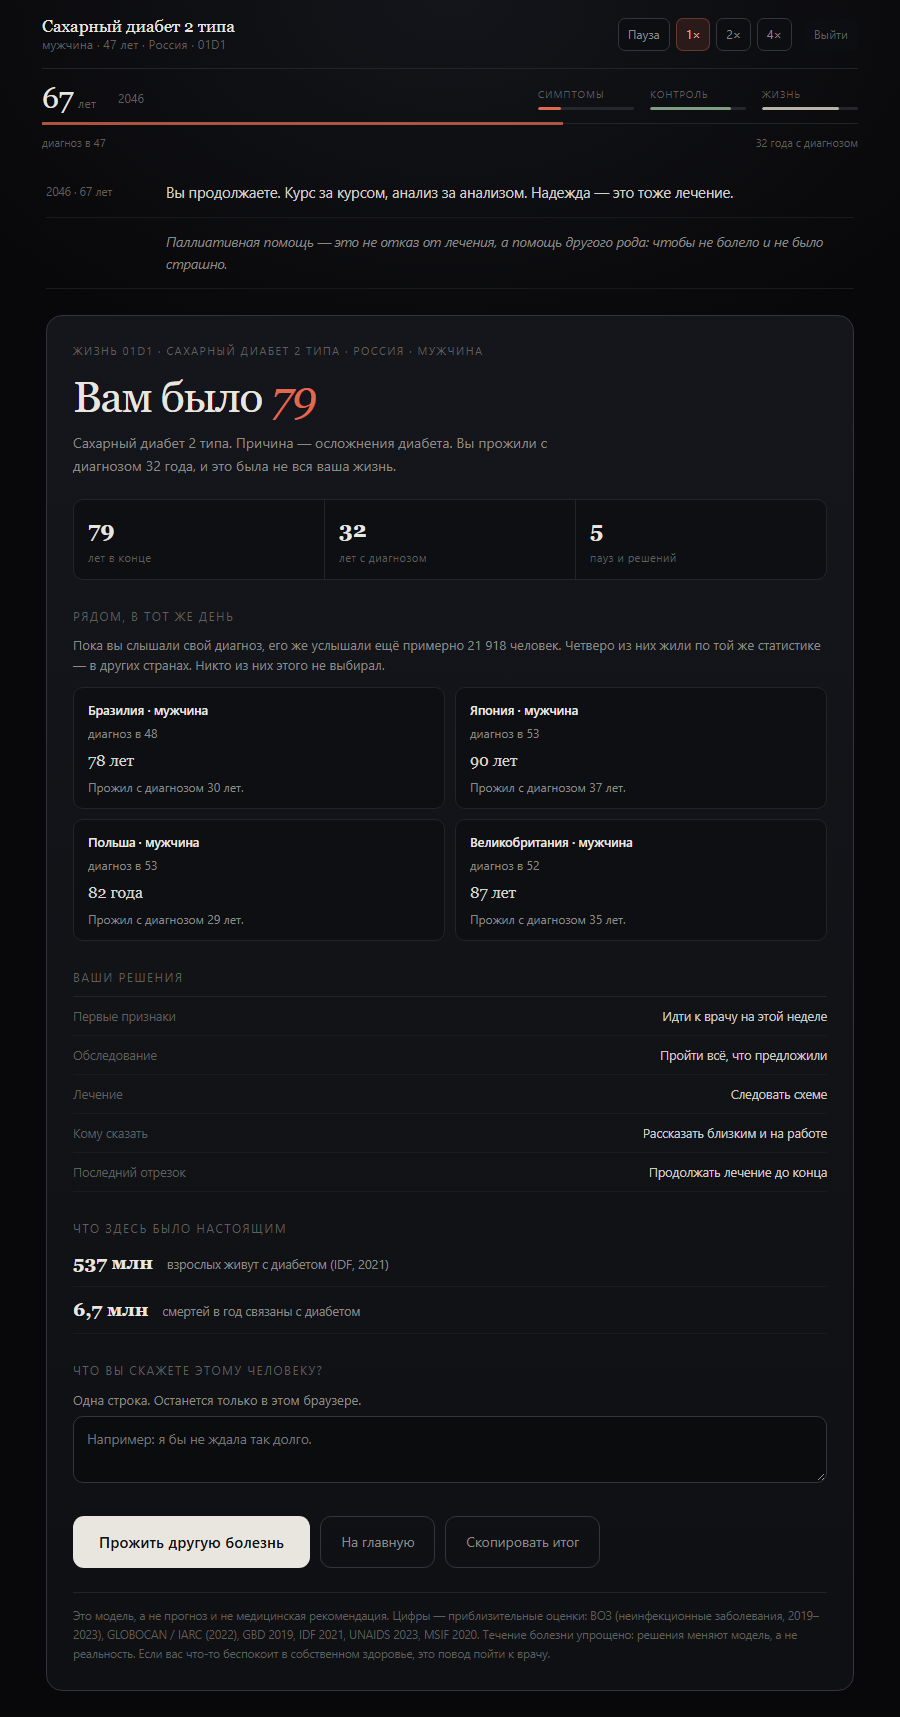
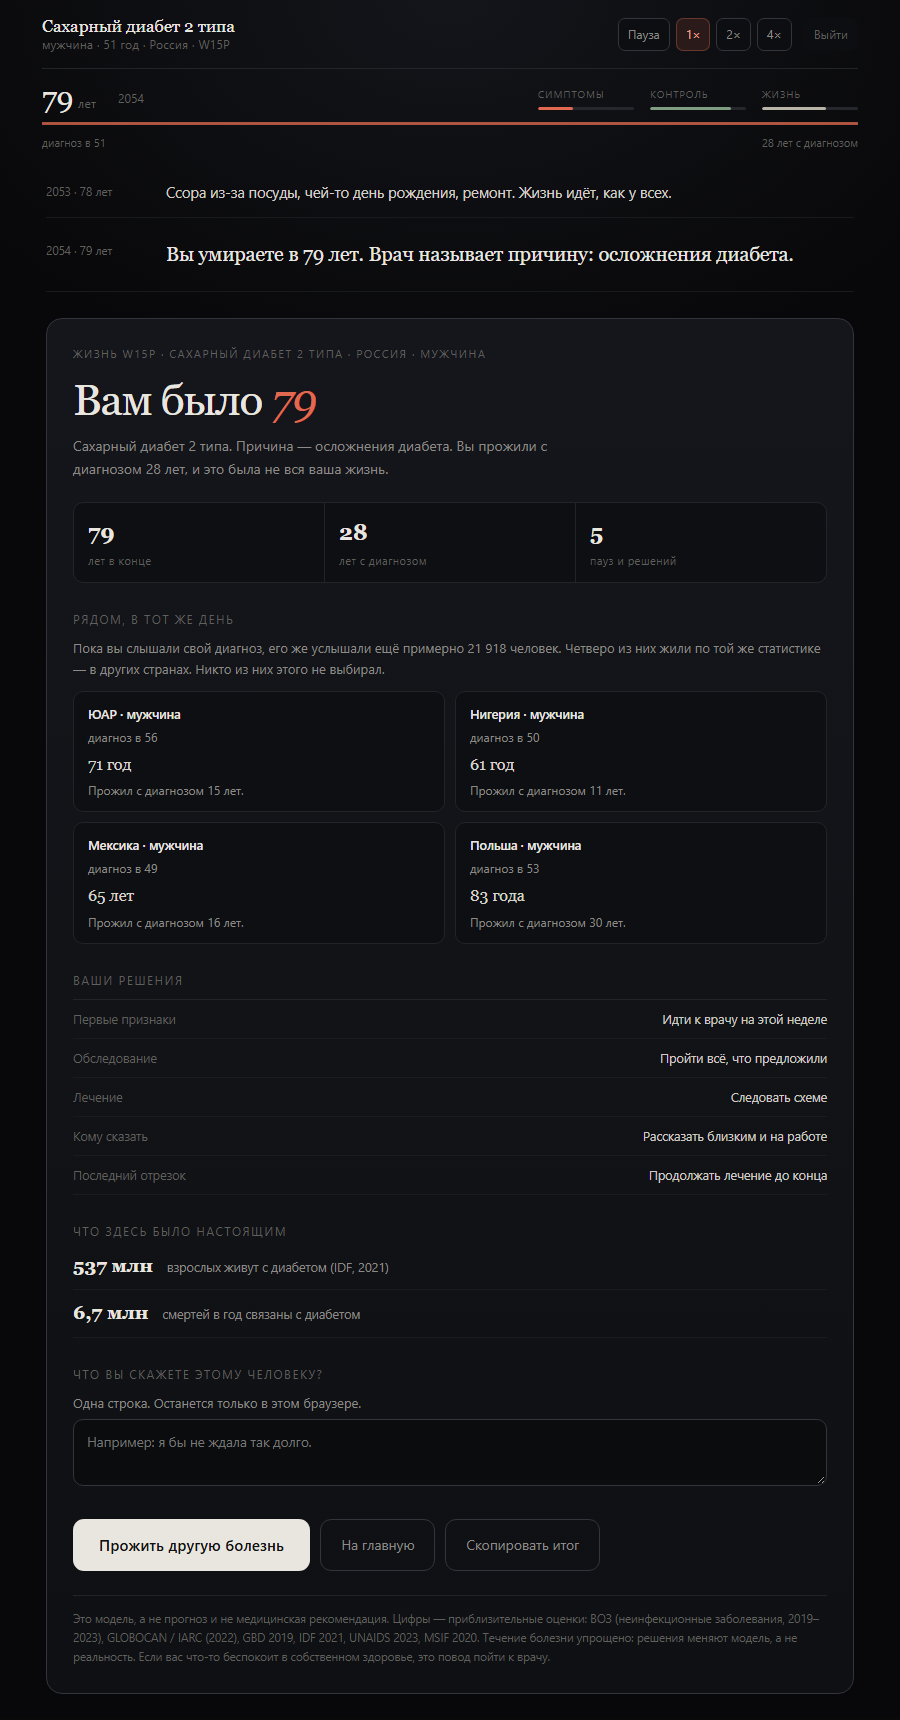
Добавить скриншот финальной карточки и свести возраст к одному округлению.
Кадр 900×1720: итог жизни, четыре соседние жизни, разбор пяти
решений, факты и поле для последней строки. Заодно шапка и карточка
теперь считают возраст одинаково — раньше они расходились на год.

🤖 Generated with Codebuff

diff --git a/index.html b/index.html
@@ -1387,7 +1387,7 @@ function showEnd() {
   if (!sim || ended) return;
   ended = true; stopLoop(); paused = true; panelOpen = false;
   $('#panel').classList.remove('on');
-  const l = sim, d = l.d, age = Math.round(l.onset + l.s.t), cured = l.outcome === 'cured';
+  const l = sim, d = l.d, age = Math.floor(l.onset + l.s.t), cured = l.outcome === 'cured';
   const sh = shadows();
   const perDay = Math.max(1, Math.round(d.yearly / 365));
   const words = [];
